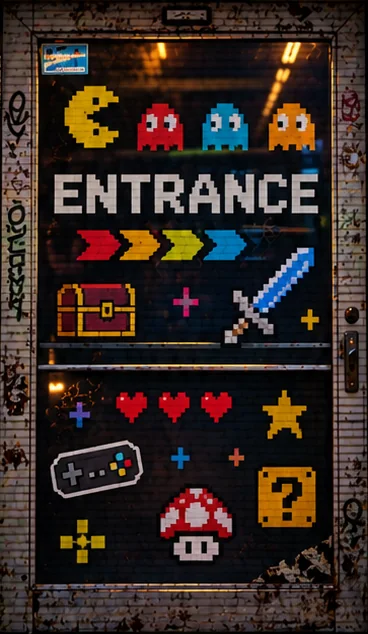
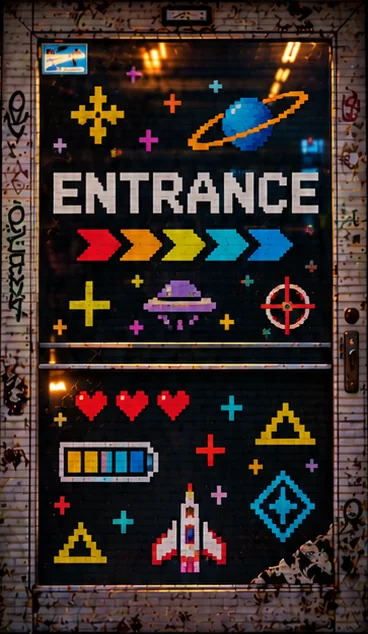
Gaming: entrance picture with only generic pixel symbols
Marco's v3 photo drops the Pac-Man ghosts, mushroom and ? block too. Same
layout, rebuilt with scripts/arcade-sign.py; the morning's version is in
_removed_content/gaming-entrance-figures.

Claude-Session: https://claude.ai/code/session_01UkBnrV3m2V6J2UMT1rPg7g

diff --git a/lib/whatsNew.ts b/lib/whatsNew.ts
@@ -34,7 +34,7 @@ const HIDDEN_TITLES = /^Dokumentation\b/;
 const EN: Record<string, { title: string; text: string }> = {
   'Neues Eingangsbild ohne fremde Logos': {
     title: 'A new entrance picture without other brands’ logos',
-    text: 'Marco’s new picture now hangs outside the arcade hall. Instead of Nintendo, SEGA and Atari logos and well-known game characters, the door and pillars show our own pixel stickers like a treasure chest, a sword, a joystick and a dartboard. The glowing ARCADE letters and the blinking door frame work just like before.',
+    text: 'Marco’s new picture now hangs outside the arcade hall. Instead of Nintendo, SEGA and Atari logos and well-known game characters like Pac-Man or Mario, the door and pillars show our own pixel symbols like a spaceship, a planet, a UFO, a joystick and hearts. The glowing ARCADE letters and the blinking door frame work just like before.',
   },
   'Der Retro-Guru antwortet wieder': {
     title: 'The Retro Guru talks again',

diff --git a/CHANGELOG.md b/CHANGELOG.md
@@ -7,12 +7,12 @@ Eintrag in Alltagssprache: was sich für Nutzer:innen ändert, nicht wie.
 
 ## Unreleased
 
-- **Neues Eingangsbild ohne fremde Logos** (2026-10-09, PR #180): Vor der
-  Spielhalle hängt Marcos neues Bild. Statt Nintendo-, SEGA- und
-  Atari-Logos und bekannter Spielfiguren zeigen Tür und Säulen jetzt eigene
-  Pixel-Sticker wie Schatzkiste, Schwert, Joystick und Dartscheibe. Die
-  leuchtenden ARCADE-Buchstaben und der blinkende Türrahmen bleiben wie
-  gewohnt.
+- **Neues Eingangsbild ohne fremde Logos** (2026-10-09, PR #180, #181): Vor
+  der Spielhalle hängt Marcos neues Bild. Statt Nintendo-, SEGA- und
+  Atari-Logos und bekannter Spielfiguren wie Pac-Man oder Mario zeigen Tür
+  und Säulen jetzt eigene Pixel-Symbole wie Raumschiff, Planet, UFO,
+  Joystick und Herzen. Die leuchtenden ARCADE-Buchstaben und der blinkende
+  Türrahmen bleiben wie gewohnt.
 
 - **Der Retro-Guru antwortet wieder** (2026-10-08, PR #179): In der
   Gaming-Edition kam vom Guru und den anderen KI-Funktionen nur „Lag!

diff --git a/_removed_content/README.md b/_removed_content/README.md
@@ -89,3 +89,7 @@ gebaut oder ausgeliefert.
   (Grundbild, sechs ARCADE-Buchstaben, Türflügel) mit Nintendo-, SEGA- und
   Atari-Logos und bekannten Spielfiguren. Am 2026-10-09 durch Marcos neues
   Bild ohne fremde Marken ersetzt.
+- `gaming-entrance-figures/`: das Eingangsbild vom Morgen des 2026-10-09
+  (ohne Logos, aber noch mit Pac-Man-Geistern, Mario-Pilz und „?“-Block).
+  Noch am selben Tag durch Marcos Version mit nur eigenen Pixel-Symbolen
+  ersetzt.
